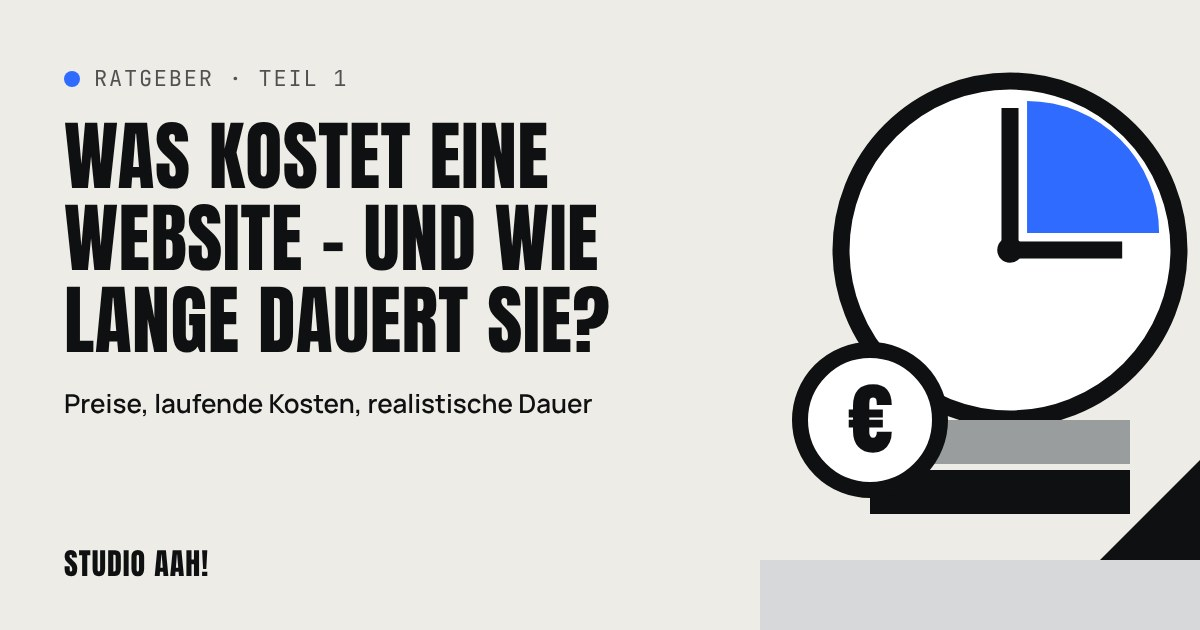
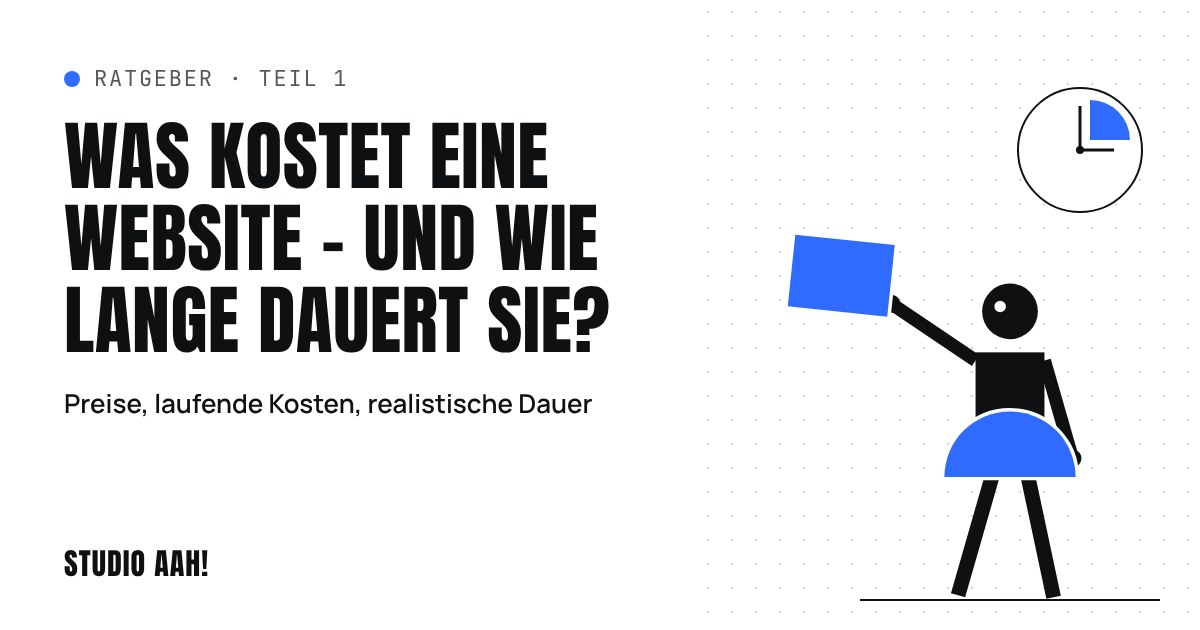
Blogbeitrag Geld und Zeit: hellere Optik mit feinen Linien, Titelbild mit Website-Wireframe und Bauhaus-Figur, Systemvergleich (WordPress, Webflow, Baukasten, selbst programmiert)
Claude-Session: https://claude.ai/code/session_01DgHRh8FoC8rL4iNtf1G8sb

diff --git a/website/blog/was-kostet-eine-website/index.html b/website/blog/was-kostet-eine-website/index.html
@@ -18,7 +18,7 @@
   <meta property="og:image" content="https://studio-aah.de/bilder/blog-geld-und-zeit-og.jpg">
   <meta property="og:image:width" content="1200">
   <meta property="og:image:height" content="630">
-  <meta property="og:image:alt" content="Was kostet eine Website – und wie lange dauert sie? Bauhaus-Grafik mit Uhr und Münzen.">
+  <meta property="og:image:alt" content="Was kostet eine Website – und wie lange dauert sie? Eine Figur aus Bauhaus-Grundformen setzt ein blaues Modul in eine Website.">
   <meta property="article:published_time" content="2026-10-13">
   <meta property="article:author" content="Anna Härtelt">
   <meta name="twitter:card" content="summary_large_image">
@@ -41,7 +41,7 @@
    "inLanguage": "de-DE",
    "url": "https://studio-aah.de/blog/was-kostet-eine-website/",
    "mainEntityOfPage": "https://studio-aah.de/blog/was-kostet-eine-website/",
-   "wordCount": 2738,
+   "wordCount": 2925,
    "articleSection": "Ratgeber",
    "keywords": [
     "Website Kosten",
@@ -289,7 +289,7 @@
     <p class="meta">Reihe „Website-Fragen“ · Teil 1: Geld und Zeit</p>
     <h1>Was kostet eine Website – und wie lange dauert sie?</h1>
     <p class="artikel-lead">Einmalige Preise, laufende Kosten und ein realistischer Zeitplan: mit Zahlen aus meiner Preisliste, Beispielrechnungen und Erfahrungen aus Projekten mit kleinen und mittleren Unternehmen.</p>
-    <p class="artikel-meta"><span>Von <a href="../../profil/">Anna Härtelt</a></span><span>Veröffentlicht <time datetime="2026-10-13">13. Oktober 2026</time></span><span>Lesezeit 14 Minuten</span><span>Preise: Stand Oktober 2026</span></p>
+    <p class="artikel-meta"><span>Von <a href="../../profil/">Anna Härtelt</a></span><span>Veröffentlicht <time datetime="2026-10-13">13. Oktober 2026</time></span><span>Lesezeit 15 Minuten</span><span>Preise: Stand Oktober 2026</span></p>
     <img class="artikel-bild" src="../../bilder/blog-geld-und-zeit.webp" alt="" width="1200" height="800">
 
     <div class="artikel-text">
@@ -371,6 +371,26 @@
         </table>
       </div>
       <p>Welcher Weg passt, hängt weniger vom Budget ab als von der Frage: Wie viel Zeit wollen und können Sie selbst investieren – und was soll die Website für Ihr Geschäft leisten?</p>
+
+      <h3>Welches System? WordPress, Webflow, Baukasten oder selbst programmiert</h3>
+      <p>Neben dem Projektpreis entscheidet das System darüber, welche Kosten jeden Monat oder jedes Jahr anfallen – und wer die Website später pflegt.</p>
+      <div class="tabelle-scroll" tabindex="0" role="region" aria-label="Tabelle: Systeme und ihre laufenden Kosten">
+        <table class="artikel-tabelle">
+          <caption>Systeme im Vergleich: laufende Kosten und Pflege</caption>
+          <thead>
+            <tr><th scope="col">System</th><th scope="col">So funktioniert es</th><th scope="col">Laufende Kosten</th><th scope="col">Selbst pflegen</th></tr>
+          </thead>
+          <tbody>
+            <tr><th scope="row">WordPress (bei mir mit dem Theme Kadence)</th><td>Freie Software (GPL), die auf einem eigenen Hosting läuft.</td><td>Hosting, Domain, eventuell Pro-Lizenzen für Theme oder Plugins, regelmäßige Updates</td><td>ja, im WordPress-Editor; Schulung bei mir 70&nbsp;€</td></tr>
+            <tr><th scope="row">Webflow</th><td>Gestaltung und Hosting aus einer Hand: Die Website liegt bei Webflow.</td><td>Webflow-Tarif, Domain</td><td>ja, im Webflow-Editor</td></tr>
+            <tr><th scope="row">Baukasten (z.&nbsp;B. Wix, Jimdo)</th><td>Website aus Vorlagen im Browser zusammenstellen, Hosting beim Anbieter.</td><td>Tarif des Anbieters</td><td>ja, dafür ist er gemacht</td></tr>
+            <tr><th scope="row">Selbst programmiert (z.&nbsp;B. mit Claude Code)</th><td>Website aus reinem HTML und CSS, ohne Datenbank – so ist auch studio-aah.de gebaut.</td><td>Hosting, Domain; keine Plugin-Updates</td><td>Änderungen im Code, zum Beispiel über mich (ab 65&nbsp;€ pro Stunde)</td></tr>
+          </tbody>
+          <tfoot>
+            <tr><td colspan="4">Bei mir entstehen Websites in WordPress (Kadence) oder mit Claude Code. Welches System zu welchem Unternehmen passt, beschreibe ich ausführlich in Teil 4 der Reihe.</td></tr>
+          </tfoot>
+        </table>
+      </div>
 
       <h2 id="preisfaktoren">Wovon der Preis abhängt</h2>
       <ul>

diff --git a/website/css/stil.css b/website/css/stil.css
@@ -2169,3 +2169,23 @@ section[hidden] { display: none !important; }
   .dauer-achse { margin-left: 0; }
   .ablauf { grid-template-columns: minmax(0, 1fr); }
 }
+
+/* 37b. Feinschliff nach Annas Rückmeldung (13.10.2026): weniger Beige und Grau, feine Linien statt Flächen */
+.artikel-ratgeber .artikel-bild { border: 1px solid var(--farbe-rahmen); border-radius: 20px; }
+.kurz { background: var(--farbe-weiss); border: 2px solid var(--farbe-dunkel); border-radius: 20px; }
+.diagramm { background: var(--farbe-weiss); border: 1.5px solid var(--farbe-dunkel); border-radius: 20px; }
+.balken { height: 12px; }
+.stapel { height: 18px; }
+.dauer-spur { height: 12px; }
+.kennzahlen-reihe div { background: var(--farbe-weiss); border: 1.5px solid var(--farbe-dunkel); border-radius: 20px; }
+.kennzahlen-reihe div:first-child { background: var(--farbe-dunkel); color: var(--farbe-weiss); border-color: var(--farbe-dunkel); }
+.praxis { border-left-width: 3px; }
+.methodik { background: var(--farbe-weiss); border: 1px solid var(--farbe-rahmen); }
+.vergleich > div { border-width: 1.5px; }
+.checkliste li::before { background: transparent; color: var(--farbe-dunkel); border: 1.5px solid var(--farbe-dunkel); box-sizing: border-box; width: 36px; height: 36px; font-size: 18px; }
+.checkliste li:first-child::before { background: #2f6bff; border-color: #2f6bff; color: var(--farbe-weiss); }
+.checkliste li { padding-left: 52px; }
+.ablauf li { border: 1.5px solid var(--farbe-dunkel); }
+.ablauf-nr { width: 36px; height: 36px; font-size: 18px; }
+.artikel-schluss { background: var(--farbe-weiss); border: 2px solid var(--farbe-dunkel); border-radius: 20px; }
+.grafik figcaption { color: rgba(14, 16, 17, .7); }

diff --git a/werkzeuge/grafiken/blog/geld-und-zeit-titel.py b/werkzeuge/grafiken/blog/geld-und-zeit-titel.py
@@ -1,0 +1,64 @@
+# Erzeugt werkzeuge/grafiken/blog/geld-und-zeit-titel.svg – Titelbild Blog „Geld und Zeit“ (Fassung 3, 13.10.2026)
+# Website als Wireframe in feinen Linien, davor die Bauhaus-Figur (Konstruktionsvorschlag), die ein blaues Modul einsetzt.
+# Farben laut CI. Blau berührt nie Schwarz: weiße Fugen bzw. Abstand.
+# Aufruf vom Repository-Ordner: python3 werkzeuge/grafiken/blog/geld-und-zeit-titel.py
+# Danach als Bild rendern (Schriften Anton und JetBrains Mono einbinden) und als website/bilder/blog-geld-und-zeit.webp speichern.
+import math, os
+SCH, BL, WS, GR, MG = '#0e1011', '#2f6bff', '#fff', '#d6d8d9', '#9a9d9e'
+FUGE = 8
+
+def balken(sx, sy, w, laenge=120, breite=16, hand=True):
+    t = f'<g transform="translate({sx} {sy}) rotate({w})"><rect x="{-breite/2}" y="0" width="{breite}" height="{laenge}" fill="{SCH}"/>'
+    if hand: t += f'<circle cx="0" cy="{laenge+4}" r="11" fill="{SCH}"/>'
+    return t + '</g>'
+
+def ende(sx, sy, w, laenge=120):
+    a = math.radians(w); return sx - (laenge + 4) * math.sin(a), sy + (laenge + 4) * math.cos(a)
+
+def figur(arm_l, arm_r, bein_l, bein_r, blick=1):
+    t = balken(-22, -150, bein_l, 150, 18, False) + balken(22, -150, bein_r, 150, 18, False)
+    t += '<rect x="-42" y="-302" width="84" height="96" fill="%s"/>' % SCH
+    t += balken(-42, -292, arm_l) + balken(42, -292, arm_r)
+    t += f'<path d="M-80 -150 A80 80 0 0 1 80 -150 Z" fill="{BL}" stroke="{WS}" stroke-width="{FUGE}" paint-order="stroke"/>'
+    t += f'<circle cx="0" cy="-352" r="34" fill="{SCH}"/><circle cx="{12*blick}" cy="-358" r="7" fill="{WS}"/>'
+    return t
+
+linie = f'fill="none" stroke="{SCH}" stroke-width="2" stroke-linecap="round" stroke-linejoin="round"'
+grau = f'stroke="{MG}" stroke-width="1.5"'
+s = []
+s.append(f'<svg xmlns="http://www.w3.org/2000/svg" viewBox="0 0 1200 800" width="1200" height="800">')
+s.append(f'<defs><pattern id="punkte" width="24" height="24" patternUnits="userSpaceOnUse"><circle cx="12" cy="12" r="1.3" fill="{GR}"/></pattern></defs>')
+s.append(f'<rect width="1200" height="800" fill="{WS}"/><rect width="1200" height="800" fill="url(#punkte)"/>')
+# Browserfenster
+s.append(f'<g {linie}><rect x="80" y="90" width="700" height="600" rx="16" fill="{WS}"/><line x1="80" y1="136" x2="780" y2="136"/>'
+         f'<circle cx="110" cy="113" r="6"/><circle cx="132" cy="113" r="6"/><circle cx="154" cy="113" r="6"/><rect x="196" y="101" width="330" height="24" rx="12"/>'
+         f'<line x1="470" y1="170" x2="510" y2="170"/><line x1="530" y1="170" x2="570" y2="170"/><line x1="590" y1="170" x2="630" y2="170"/>'
+         f'<rect x="440" y="210" width="300" height="200" rx="8"/><line x1="440" y1="210" x2="740" y2="410" stroke-width="1.5"/><line x1="740" y1="210" x2="440" y2="410" stroke-width="1.5"/>'
+         f'<rect x="120" y="460" width="190" height="190" rx="10"/><rect x="330" y="460" width="190" height="190" rx="10" stroke-dasharray="8 8"/><rect x="540" y="460" width="200" height="190" rx="10"/>'
+         f'<circle cx="150" cy="492" r="12"/><path d="M558 504 L582 504 L570 480 Z"/></g>')
+s.append(f'<g {grau}><line x1="120" y1="340" x2="390" y2="340"/><line x1="120" y1="360" x2="360" y2="360"/><line x1="120" y1="380" x2="320" y2="380"/>'
+         f'<line x1="140" y1="540" x2="280" y2="540"/><line x1="140" y1="560" x2="250" y2="560"/><line x1="560" y1="540" x2="710" y2="540"/><line x1="560" y1="560" x2="680" y2="560"/></g>')
+s.append(f'<rect x="120" y="162" width="74" height="16" rx="3" fill="{SCH}"/>')
+s.append(f'<text x="214" y="118" font-family="JetBrains Mono, monospace" font-size="13" fill="{MG}">ihre-firma.de</text>')
+s.append(f'<text x="118" y="250" font-family="Anton, Impact, sans-serif" font-size="54" fill="{SCH}" letter-spacing="1">IHRE</text>')
+s.append(f'<text x="118" y="312" font-family="Anton, Impact, sans-serif" font-size="54" fill="{SCH}" letter-spacing="1">WEBSITE</text>')
+s.append(f'<rect x="120" y="404" width="140" height="34" rx="17" fill="{BL}"/><rect x="142" y="418" width="58" height="6" rx="3" fill="{WS}"/>'
+         f'<path d="M216 421 h22 m-8 -7 l8 7 l-8 7" fill="none" stroke="{WS}" stroke-width="2.5" stroke-linecap="round" stroke-linejoin="round"/>')
+# Uhr (Zeit) und Preisschild (Geld), feine Linien
+s.append(f'<g transform="translate(1040 170)"><circle r="80" fill="{WS}" stroke="{SCH}" stroke-width="2"/><path d="M12 -12 L12 -66 A54 54 0 0 1 66 -12 Z" fill="{BL}"/>'
+         f'<g stroke="{SCH}" stroke-width="2" stroke-linecap="round"><line x1="0" y1="-80" x2="0" y2="-70"/><line x1="80" y1="0" x2="70" y2="0"/><line x1="0" y1="80" x2="0" y2="70"/><line x1="-80" y1="0" x2="-70" y2="0"/>'
+         f'<line x1="0" y1="0" x2="0" y2="-56" stroke-width="3"/><line x1="0" y1="0" x2="44" y2="0" stroke-width="3"/></g><circle r="5" fill="{SCH}"/></g>')
+s.append(f'<g transform="translate(600 610) rotate(-6)"><path d="M0 0 H170 L212 50 L170 100 H0 Z" fill="{WS}" stroke="{SCH}" stroke-width="2" stroke-linejoin="round"/>'
+         f'<circle cx="180" cy="50" r="8" fill="none" stroke="{SCH}" stroke-width="2"/><text x="18" y="38" font-family="JetBrains Mono, monospace" font-size="14" fill="{SCH}">AB</text>'
+         f'<text x="16" y="82" font-family="Anton, Impact, sans-serif" font-size="42" fill="{SCH}" letter-spacing="1">1.150 €</text></g>')
+# Boden und Figur, die das blaue Modul in die gestrichelte Lücke setzt
+s.append(f'<line x1="840" y1="700" x2="1150" y2="700" stroke="{SCH}" stroke-width="2"/>')
+fx, fy, k = 985, 700, 1.0
+s.append(f'<g transform="translate({fx} {fy}) scale({k})">' + figur(124, -16, 16, -12, blick=-1) + '</g>')
+hx, hy = ende(-42, -292, 124); hx, hy = fx + hx * k, fy + hy * k
+s.append(f'<rect x="{hx-120}" y="{hy-76}" width="120" height="86" fill="{BL}" stroke="{WS}" stroke-width="{FUGE}" paint-order="stroke" transform="rotate(6 {hx-60} {hy-33})"/>')
+s.append(f'<path d="M{hx-122} {hy-10} Q{hx-200} {hy+70} 430 520" fill="none" stroke="{SCH}" stroke-width="2" stroke-dasharray="3 7" stroke-linecap="round"/>')
+s.append('</svg>')
+ziel = os.path.join(os.path.dirname(__file__), 'geld-und-zeit-titel.svg')
+open(ziel, 'w').write('\n'.join(s) + '\n')
+print('geschrieben:', ziel)
